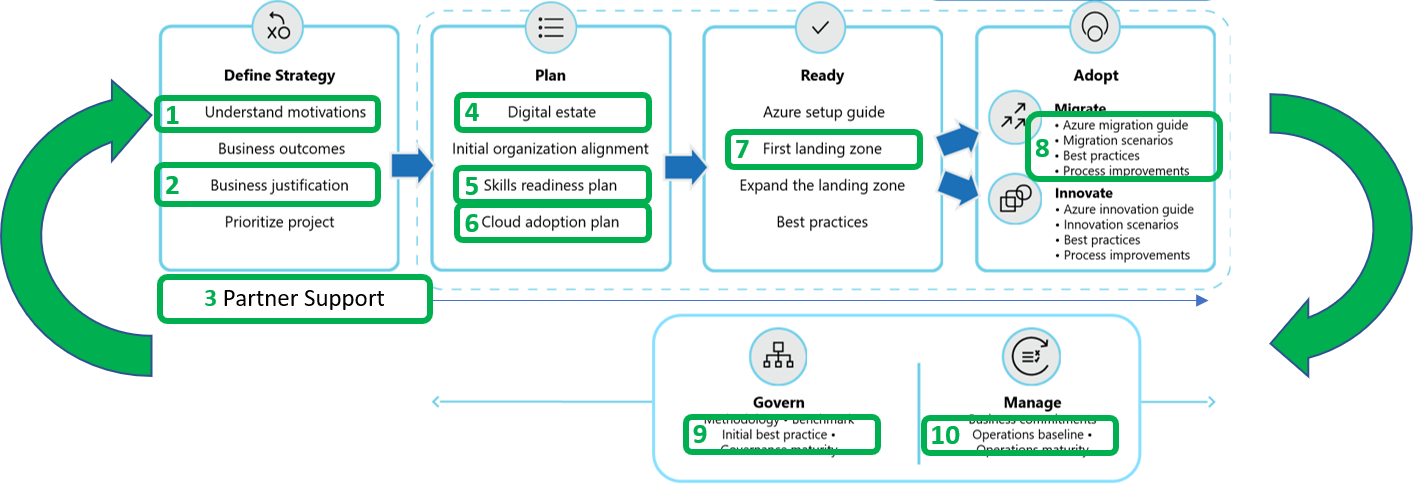
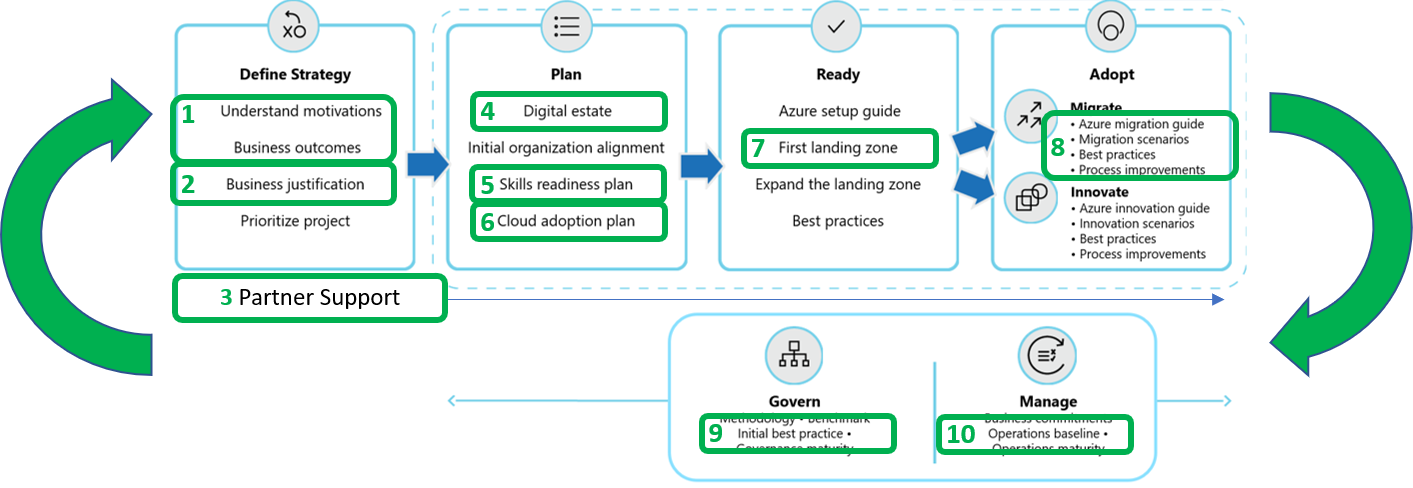
Updating the Migrate Getting Started

diff --git a/docs/getting-started/migrate.md b/docs/getting-started/migrate.md
@@ -11,17 +11,13 @@ ms.subservice: overview
 
 # Getting started: An accelerated migration journey in Azure
 
-The Microsoft Cloud Adoption Framework for Azure provides detailed guidance on the business and technical decisions required to adopt the cloud. Like all guidance in this framework, an agile or iterative approach to each methodology is highly recommended. Start small to accelerate business results in early iterations, while moving towards a consistent end-state at each release of adoption changes. This getting started guide will aid in the acceleration of migration specific journeys supported by this framework.
-
-## Executive Summary
-
-Migration to the cloud is a change management effort, cleverly disguised as a simple technology process. When getting started with any migration, it is important to align business strategy, portfolio planning, change management, cloud governance, and of course the actual migration effort. Each of those important alignment efforts is covered by a different methodology & is generally executed by various different teams throughout a customer's migration journey.
+Migration to the cloud is a change management effort, which is cleverly disguised as a simple technology process. When getting started with any migration, it is important to align business strategy, portfolio planning, change management, cloud governance, and of course the actual migration effort. Each of those important alignment efforts is covered by a different methodology & is generally executed by various different teams throughout a customer's migration journey.
 
 Accelerating alignment between various stakeholders and various aspects of migration can be overwhelming and complex. This getting started guide represents the smallest unit of effort required to accelerate migration success. Use this guide as a checklist to evaluate where you are at in your first migration & to find some steps that you may have missed. At the end of this article are a few suggested process improvements you may want to consider after you've mastered your first migration to Azure.
 
 ## Accelerating migration
 
-The cloud adoption framework is an iterative guide providing holistic support throughout your cloud adoption journey. Within the overall framework are a series of actionable steps that can help accelerate migration efforts, see the highlighted image below or the next section on actionable steps to get started.
+The cloud adoption framework is an iterative guide providing holistic support throughout your cloud adoption journey. Within the overall framework are a series of actionable steps that can help accelerate migration efforts, outlined in the remainder of this article.
 
 ![Getting Started with Migration in Azure](../_images/getting-started/migration-getting-started-map.png)
 
@@ -40,112 +36,115 @@ The following steps reduce the amount of materials and the processes required du
 9. Governance
 10. Management
 
-## Introduction to each step
+## Implementation details for each actionable steps
 
 Each of these steps pulls from the broader cloud adoption framework, allowing readers to start fast and scale efforts overtime.
 
+### Tools for acceleration
+
+The following steps can easily be accelerated using the following tools, which each align to execution of these steps:
+
+- [Strategy and Planning Template](https://archcenter.blob.core.windows.net/cdn/fusion/readiness/Microsoft-Cloud-Adoption-Framework-Strategy-and-Plan-Template.docx): The strategy and planning template is word doc template to help capture critical decisions made during the first 6 steps below. It also provides other deeper topics which may require further investigation.
+- [SMART Assessment](/assessments/?id=Strategic-Migration-Assessment-and-Readiness-Tool): The SMART Assessment is a question and answer format assessment which will help identify areas of improvement related to the following steps.
+
 ### 1. Business strategy
+
+The first challenge organizations face when attempting to migrate existing assets to the cloud, is the creation of a clear and concise business strategy for migration. The framework provides an entire methodology on the development and definition of a cloud adoption strategy. From that methodology, there are a few important links or activities that can help complete this step for a migration specific strategy:
+
+- Strategy: [Understand motivations](../strategy/motivations.md): The first step to strategic alignment is to gain a consensus on the motivations driving the migration effort. This article outlines common motivations and themes to help capture the overall desires of the various stakeholders across business and IT.
+- Strategy: [Business Outcomes](../strategy/business-outcomes/index.md): Once motivations are aligned, its possible to capture the desired business outcomes. This provides clear metrics by which the overall transformation can be measured.
+
+Together, these data points will help maintain business alignment and prioritization throughout the migration effort.
+Recording the results of these activities in the [Strategy and Planning Template](https://archcenter.blob.core.windows.net/cdn/fusion/readiness/Microsoft-Cloud-Adoption-Framework-Strategy-and-Plan-Template.docx) will help ensure consistent communication and alignment.
+
 ### 2. Business case
+
+Making the business case for migration will likely be an iterative conversation amongst stakeholders. In this first pass at building the business case, less is more. The objective is to provide enough initial information to evaluate the general return from a potential cloud migration.
+
+- Strategy: [Building a cloud migration business case](../strategy/cloud-migration-business-case.md) is a good starting point for developing a migration business case, with clarity on formulas and tools that can aid in business justification.
+
+Recording a snapshot of the initial analysis in the [Strategy and Planning Template](https://archcenter.blob.core.windows.net/cdn/fusion/readiness/Microsoft-Cloud-Adoption-Framework-Strategy-and-Plan-Template.docx) will help provide a quick means of reminding stakeholders of the agreed upon initial direction.
+
 ### 3. Partner support
+
+Support from partners, support, Microsoft services, and various Microsoft programs may be available throughout the migration process. The following table outlines a number of available resources to aid in finding the right level of support:
+
+|Methodology  |Partner offers|Service offers|Microsoft programs|
+|---------|---------|---------|---------|
+|Strategy (Steps 1 & 2)|         |         |         |
+|Plan (Steps 4-6)|         |         |         |
+|Ready (Step 7)|         |         |         |
+|Migrate (Step 8)|         |         |         |
+|Govern (Step 9)|         |         |         |
+|Manage (Step 10)|         |         |         |
+
+Throughout each of these methodologies, support engineers can assistance with deep technical guidance.
+The following steps will aid in leveraging support from within the the [Azure portal](https://portal.azure.com).
+
+1. Select **Help + support**.
+2. Select **Support Plans** to review the plans available to you.
+
 ### 4. Discovery & assessment
+
+Discovery and assessment provides a deeper level of technical alignment to create an actionable plan to deliver on the strategy. During this step, the business case is expanded using data about the current state environment, quantitative analysis of that data, and a deep qualitative assessment of the highest priority workloads. The following steps may have been covered to deliver the business justification, use these steps to build on what has already been completed:
+
+- Plan: [Inventory existing systems](../digital-estate/inventory.md): Understanding the current state from a programatic, data-driven approach is the first step. Discover and gather data to enable all assessment activities.
+- Plan: [Incremental rationalization](../digital-estate/rationalize.md#incremental-rationalization): Streamline assessment efforts to focus on a qualitative analysis of all assets (possibly even to support the business case). Then add a deep qualitative analysis for the first 10 workloads to be migrated.
+- Plan: [Select the first workload](../digital-estate/rationalize.md#select-the-first-workload): Go deeper with the first workload to validate the assessment and test the plan.
+- Plan/Migrate: [Challenge assumptions](../digital-estate/rationalize.md#challenge-assumptions): Following a core principle of Agile called "late-bound technical decisions", the adoption team will continue to refine the plan and challenge assumptions during each iteration of migration execution.
+
 ### 5. Technical skilling
+
+Once the high-level rationalization is completed & added to the [Strategy and Planning Template](https://archcenter.blob.core.windows.net/cdn/fusion/readiness/Microsoft-Cloud-Adoption-Framework-Strategy-and-Plan-Template.docx), the required skills becomes much clearer to the entire team. Once skills are understood the template can be used to track skilling opportunities.
+
+- Plan: [Build a skills readiness plan](/plan/adapt-roles-skills-processes.md): A quick evaluation of the required skills and existing skills amongst the team will aid in understanding what skilling requirements need to be addressed. This is the first step of iterative skilling. At each release of the migration effort, the team can obtain a subset of the necessary skills through hands-on experienced and structured learning paths.
+
 ### 6. Migration plan
+
+The cloud adoption plan template provides an accelerated approach to develop a project backlog. That backlog can then be modified to reflect discovery results, rationalization, skilling, and partner contracting.
+
+- Plan: [Cloud adoption plan template](../plan/template.md): Deploy the basic template
+- Plan: [Workload alignment](../plan/workloads.md): Define workloads in the backlog
+- Plan: [Effort alignment](../plan/assets.md): Align assets and workloads in the backlog to clearly define effort for prioritized workloads
+- Plan: [People & time alignment](../plan/iteration-paths.md): Establish iteration, velocity (people's time), and releases of migrated workloads
+
 ### 7. Landing zone
+
+All migrated assets are deployed within a landing zone. Initially, the landing zone will be simplistic to support smaller workloads. Over time, it will scale to address more complex workloads.
+
+- Ready: [Choose a landing zone](../ready/landing-zone/first-landing-zone.md): Use this article to find the right approach to deploying a landing zone based on your adoption pattern. Then deploy that standardized code base.
+- Ready: [Expand your landing zone](../ready/considerations/index.md): Regardless of the starting point, identify gaps in the deployed landing zone to add required components for resource organization, security, governance, compliance, operations, etc...
+
 ### 8. Migration execution
+
+For the majority of customer adoption patterns, the proceeding steps prepare the broader organization and platform for the migration work in this step. If migration is simply a technical process, skipping to this step may be perfectly acceptable. Some adoption patterns call for a one-time migration, wherein all assets are moved in a single motion, if that is the case you might be able to jump to this step as well.
+
+Migration execution is an iterative process of its own. Many people also refer to migration execution as a migration factory, because each release and each iteration is similar to running a set of workloads and assets through a conveyor belt, migrating each to the cloud.
+
+For more information on this step, see the [overview page for the Migration methodology](../migrate/index.md).
+
 ### 9. Governance
+
+Governance is a key factor to the long-term success of any migration effort. Speed to migration and business impact is important. But, speed without governance can be dangerous. Each organization will need to make decisions about governance, which align to their adoption patterns and governance/compliance needs.
+
+The following links outline three approaches to governance:
+
+1. Ready: [Add governance to landing zones](../ready/considerations/governance.md): This section outlines way in which you can add basic governance to your first landing zone. This is not a governance solution, but will prepare for future governance by adding relevant tools to your environment.
+2. Govern: [Approach](../govern/index.md): This methodology outlines a process for thinking about corporate policy and processes. Then building the disciplines required to deliver on governance across the cloud enterprise adoption efforts.
+3. Govern: [Initial foundation](../govern/guides/complex/prescriptive-guidance.md): Similar to the landing zone article, this article will guide readers through the addition of governance to existing adoption efforts. The story-based article series follows a common set of customer stories & shows how to add governance controls in parallel to adoption needs.
+
 ### 10. Management
 
-## Recap
+Operations Management is another requirement to reach migration success. Migrating to the cloud without an understanding of on-going operations is a risky decision. In parallel to migration, it is suggested that customers start planning for longer-term operations. The Manage methodology of CAF adds clarity to operations management in the cloud:
 
-## Next Steps
+- Manage: [Management Baseline](../manage/index.md):
+- Manage: [Define business commitments](../manage/considerations/business-alignment.md):
+- Manage: [Expand the management baseline](../manage/best-practices.md):
+- Manage: [Get specific with advanced operations](../manage/design-principles.md):
 
+## Common outcomes
 
-
-> [!NOTE] REMOVE BEFORE PUBLISHING
-> **Purpose of the getting started articles**
-> Each is oriented to a specific goal or outcome. Should be clearly outlined in first 100 words.
-> Short, concise guidance under 10 minutes to read (5 or less is better)
-> Preferably fits into a 1-2 page PDF
-> **Characteristics**
-> Potential crosses multiple methodologies
-> Potential crosses multiple teams in the org (could include things a partner or MSFT needs to do)
-> Each has a graphic showing how it guides them through the cloud journey to accomplish the goal
-
-## Old article for reference content
-
-Use the Microsoft Cloud Adoption Framework for Azure to begin a cloud migration journey. This framework provides comprehensive guidance for transitioning legacy application workloads to the cloud using innovative cloud-based technologies.
-
-## Executive summary
-
-The Cloud Adoption Framework helps customers undertake a simplified cloud adoption journey. This framework contains detailed information about an end-to-end cloud adoption journey, starting with targeted business outcomes, and then aligning cloud readiness and assessments with clearly defined business objectives. Those outcomes are achieved through a defined path for cloud adoption. With migration-based adoption, the defined path focuses largely on migrating on-premises workloads to the cloud. Sometimes this journey includes modernization of workloads to increase the return on investment from the migration effort.
-
-This framework is designed primarily for cloud architects and the cloud strategy teams leading cloud adoption efforts. However, many subjects in this framework are relevant to other roles across the business and IT. Cloud architects frequently serve as facilitators to engage each of the relevant roles. This executive summary is designed to prepare the various roles before facilitating conversations.
-
-> [!NOTE]
-> This guidance is currently a public preview. Terminology, approaches, and guidance are being thoroughly tested with customers, partners, and Microsoft teams during this preview. As such, the TOC and guidance may change slightly over time.
-
-## Motivations
-
-Cloud migrations can help companies achieve their desired business outcomes. Clear communication of motivations, business drivers, and measurements of success are important foundations for making wise decisions throughout cloud migration efforts. The following table classifies motivations to facilitate this conversation. It is assumed that most companies will have motivations across each classification. The objective of this table is not to limit outcomes, but instead make it easier to prioritize overall objectives and motivations:
-
-<!-- markdownlint-disable MD033 -->
-
-|Critical Business Events | Migration Motivations | Innovation Motivations |
-|---------|---------|---------|
-| Datacenter exit<br/><br/>Mergers, acquisition, or divestiture<br/><br/>Reductions in capital expenses<br/><br/>End of support for mission-critical technologies<br/><br/>Response to regulatory compliance changes<br/><br/>Meet new data sovereignty requirements<br/><br/>Reduce disruptions and improve IT stability|Cost savings<br/><br/>Reduction in vendor or technical complexity<br/><br/>Optimization of internal operations<br/><br/>Increase business agility<br/><br/>Prepare for new technical capabilities<br/><br/>Scale to meet market demands<br/><br/>Scale to meet geographic or market demands|Prepare for new technical capabilities<br/><br/>Build new technical capabilities<br/><br/>Modernize security posture and controls<br/><br/>Scale to meet geographic or market demands<br/><br/>Improve customer experiences and engagements<br/><br/>Transform products or services<br/><br/>Disrupt the market with new products or services|
-
-<!-- markdownlint-enable MD033 -->
-
-When a response to critical business events is the highest priority, it is important to engage in [cloud implementation](#cloud-implementation) early, often in parallel with strategy and planning efforts. Taking such an approach requires a growth mindset and a willingness to iteratively improve processes, based on direct lessons learned.
-
-When migration motivations are a priority, [strategy and planning](#cloud-strategy-and-planning) will play a vital role early in the process. However, it is highly suggested that [implementation](#cloud-implementation) of the first workload is conducted in parallel with planning, to help the team understand and plan for any learning curves associated with the cloud.
-
-When innovation motivations are the highest priority, strategy and planning will require additional investments early in the process to ensure balance in the portfolio and wise alignment of the investment made during cloud. For more information about realizing innovation motivations, see [Understand the innovation journey](./innovate.md).
-
-Preparing all participants across the migration effort with an awareness of the motivations will ensure wiser decisions. The following migration methodology outlines how Microsoft suggests customers guide those decisions in a consistent methodology.
-
-## Migration approach
-
-The Cloud Adoption Framework establishes a high-level construct of Plan, Ready, Adopt to group the types of effort required across any cloud adoption. This executive summary builds on that high-level flow to establish iterative processes that can facilitate lift-shift-optimize efforts and modernization efforts in a single approach across all cloud migration activities.
-
-This approach consists of two methodologies or areas of focus: Cloud Strategy & Planning and Cloud Implementation. The [motivation](#motivations) or desired business outcome for a cloud migration often determines how much a team should invest in [strategy and planning](#cloud-strategy-and-planning) and [implementation](#cloud-implementation). Those motivations can also influence decisions to execute each sequentially or in parallel.
-
-## Cloud implementation
-
-Cloud implementation is an iterative process for migrating and modernizing the digital estate, aligned with targeted business outcomes and change management controls. During each iteration, workloads are migrated or modernized in alignment with the strategy and plan. Decisions regarding IaaS, PaaS, or hybrid are made during the assess phase of the [Migrate methodology](../migrate/index.md) to optimize control and execution. Those decisions will drive the tools used during each iteration of the migration phase within the same methodology. This model can be used with minimal strategy and planning. However, to ensure the greatest business returns, both IT and the business should align on a clear strategy and plan to guide implementation activities.
-
-![The Cloud Adoption Framework's cloud implementation methodology](../_images/migrate/methodology.png)
-
-The focus of this effort is the migration or modernization of workloads. A workload is a collection of infrastructure, applications, and data that collectively supports a common business goal, or the execution of a common business process. Examples of workloads could include things like a line-of-business application, an HR payroll solution, a CRM solution, a financial document approval workflow, or a business intelligence solution. Workloads may also include shared technical resources like a data warehouse that supports several other solutions. In some cases, a workload could be represented by a single asset like a self-contained server, application, or data platform.
-
-Cloud migrations are often considered a single project within a broader program to streamline IT operations, costs, or complexity. The cloud implementation methodology helps align the technical efforts within a series of workload migrations to higher-level business values outlined in the cloud strategy and plan.
-
-**Getting started:** Begin a cloud implementation using the [Azure migration guide](../migrate/azure-migration-guide/index.md) and [Azure setup guide](../ready/azure-setup-guide/index.md), which outline the tools and high-level processes needed for successful execution of a cloud implementation. Migrating your first workload using those guides will help the team overcome initial learning curves early in the planning process. Afterwards, additional considerations should be given to the [migration best practices](../migrate/azure-best-practices/index.md) and [migration considerations](../migrate/migration-considerations/index.md) to align the baseline guidance with your effort's unique constraints, processes, team structures, and objectives.
-
-## Cloud strategy and planning
-
-Cloud strategy and planning is a methodology that focuses on aligning business outcomes, priorities, and constraints to establish a clear migration strategy and plan. The resultant plan (or migration backlog) outlines the approach to migration and modernization across the IT portfolio, which may span entire datacenters, multiple workloads, or miscellaneous collections of infrastructure, applications, and data. Proper management of the IT portfolio across cloud implementation efforts will help drive the desired business outcomes.
-
-![Cloud Adoption Framework overview](../_images/caf-overview.png)
-
-**Getting started:** The remainder of this article prepares the reader for the proper application of the Cloud Adoption Framework's Cloud strategy and planning methodology. It also outlines additional resources and links that can help the reader adopt this approach to guide cloud implementation efforts.
-
-### Methodology explained
-
-The Cloud Adoption Framework's cloud strategy and planning methodology is based on an incremental approach to cloud implementation that aligns to agile technology strategies, cultural maturity based on growth mindset approaches, and strategies driven by business outcomes. This methodology consists of the following high-level components that guide the implementation of each strategy.
-
-As depicted in the image above, this framework aligns strategic decisions to a small number of contained processes, which operate within an iterative model. While described in a linear document, each of the following processes is expected to mature in parallel with iterations of the cloud implementation. The links for each process will aid in defining the end state and the means of maturing toward the desired end state:
-
-- **[Plan](../strategy/index.md):** When technical implementation is aligned with clear business objectives, it's much easier to measure and align success across multiple cloud implementation efforts, regardless of technical decisions.
-- **[Ready](../ready/index.md):** Preparing the business, culture, people, and environment for coming changes leads to success in each effort and accelerates implementation and change projects.
-- **Adopt:** Ensure proper implementation of desired changes, across IT and business processes, to achieve business outcomes.
-  - **[Migrate](../migrate/index.md):** Iterative execution of the [cloud implementation methodology](#cloud-implementation) adhering to the tested process of Assess, Migrate, Optimize, and Secure & Manage to create a repeatable process for migrating workloads.
-  - **[Innovate](../innovate/index.md):** Drive business value through innovation activities that unlock new technical skills and expanded business capabilities.
-- **[Govern](../govern/index.md):** Align corporate policy to tangible risks, mitigated through policy, process, and cloud-based governance tooling.
-- **[Manage](../manage/index.md):** Expand IT operations to ensure cloud-based solutions can be operated through secure, cost effective processes using modern, cloud-first operations tools.
-- **[Organize](../organize/index.md):** Align people and teams to deliver proper cloud operations and adoption.
-
-Throughout this migration experience this framework will be used to address ambiguity, manage change, and guide cross-functional teams through the realization of business outcomes.
+The steps outlined in this getting started guide will help teams accelerate migration efforts, through better change management and stakeholder alignment. Following these steps may slow the process. But these steps will remove common blockers accelerating realization of business value. As you move through this guide, you may also see some of the common outcomes.
 
 ### Common cultural changes resulting from adherence to this methodology
 
@@ -185,23 +184,16 @@ The technologies migrated to the cloud constantly expand as cloud providers add 
 - SAP on Azure
 - Analytics (Data Warehouse, Data Lake)
 
-## Next steps: Lifecycle solution
+## Next Steps
 
-The Cloud Adoption Framework is a lifecycle solution. It is designed to help readers who are just beginning their journey and as well as readers who are deep into their migration. As such, content is very context and audience specific. Next steps are best aligned to the high-level process the reader would like to improve next.
+Migration involves a number of supporting teams and organizations. In parallel to the core migration efforts, the following teams can use these next steps to continue to advance the maturity of supporting efforts. These parallel processes are not linear & shouldn't be viewed as blockers. Instead, each is a parallel value stream to aid in maturing the company's overall cloud readiness. The table below outlines common next steps for each team.
 
-> [!div class="nextstepaction"]
-> [Strategy](../strategy/index.md)
->
-> [Plan](../plan/index.md)
->
-> [Ready](../ready/index.md)
->
-> [Migrate](../migrate/index.md)
->
-> [Innovate](../innovate/index.md)
->
-> [Govern](../govern/index.md)
->
-> [Manage](../manage/index.md)
->
-> [Organize](../organize/index.md)
+The Cloud Adoption Framework is a lifecycle solution. It is designed to help readers who are just beginning their journey and as well as readers who are deep into their migration. These next steps represent iterative approaches to help with various needs throughout the journey.
+
+|Team  |Next Iteration|
+|---------|---------|
+|Cloud Migration Team|[Process improvements](../migrate/migration-considerations/index.md) provide insights to mature towards a migration factory with efficient on-going migration capabilities.|
+|Cloud Strategy Team|[Strategy](../strategy/index.md) and [Plan](../plan/index.md) are iterative processes, which will evolve with the adoption plan. Return to those overview pages to continue to iterate on the business and technical strategies.|
+|Cloud Platform Team|Revisit the [Ready](../ready/index.md) methodology to continue to advance the overall cloud platform that supports migration or other adoption efforts.|
+|Cloud Governance Team|Leverage the [Govern](../govern/index.md) methodology to continue to improve governance processes, policies, and disciplines|
+|Cloud Operations Team|Build on the [Manage](../manage/index.md) methodology to provide richer operations in Azure|
